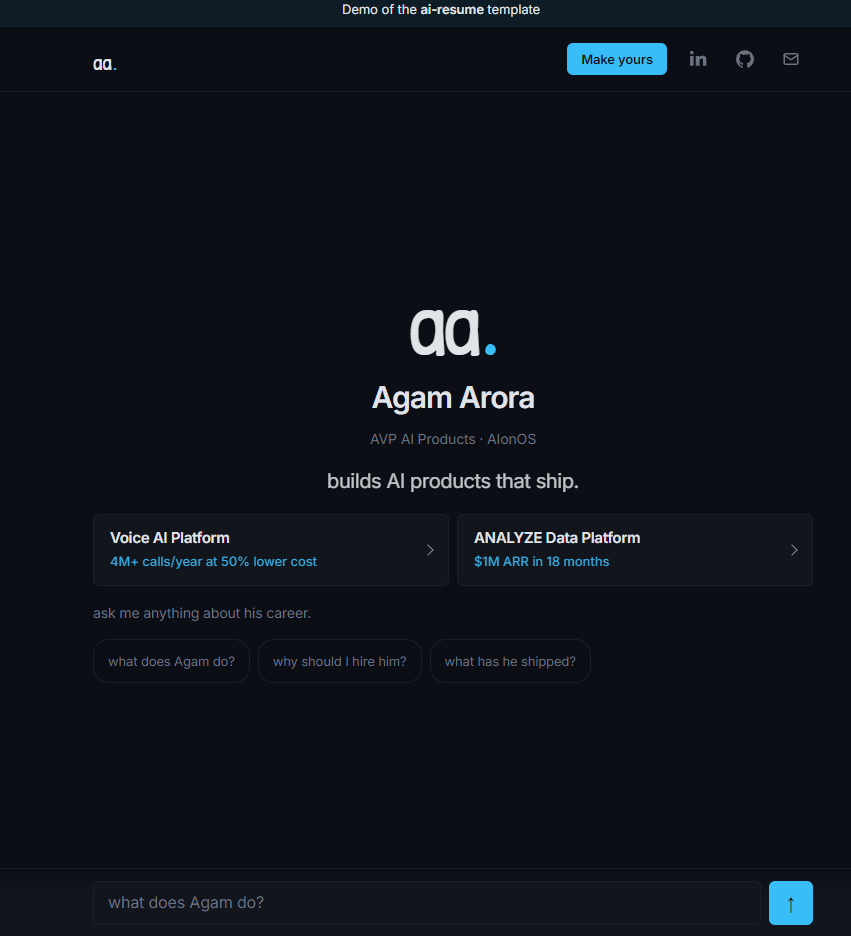
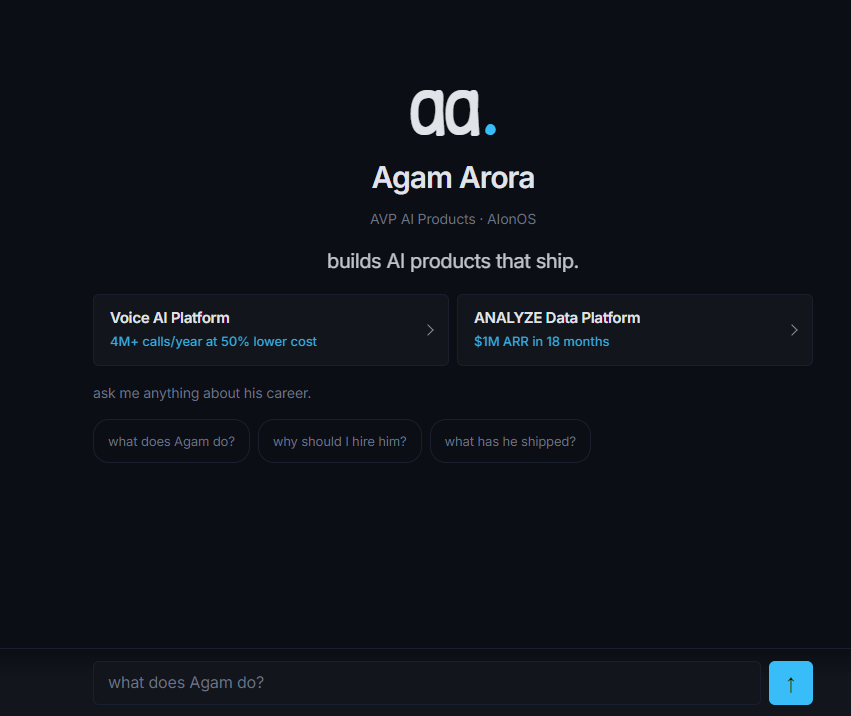
polish: crop demo image tighter + rename to 'AI Resume' in taglines
- Pre-cropped demo screenshot: 851x936 -> 851x716 (killed top banner +
  empty dark space above the aa. mark), then updated CSS to anchor at
  22% and shrunk the card slot to 320/280/220px for a more compact feel.
- Brand name in user-facing headings/taglines is 'AI Resume'; repo slug
  'ai-resume' stays only where it refers to github.com/agamarora/ai-resume
  or the route path.

diff --git a/lab/ai-resume/index.html b/lab/ai-resume/index.html
@@ -3,17 +3,17 @@
 <head>
 <meta charset="UTF-8">
 <meta name="viewport" content="width=device-width, initial-scale=1.0">
-<title>ai-resume — an open source AI resume template by Agam Arora</title>
+<title>AI Resume — an open source template by Agam Arora</title>
 <meta name="description" content="An open source template that turns your resume into a chat. Paste one prompt, get a deployed AI resume in 30 minutes. Free to run.">
 <meta name="theme-color" content="#0A0A0A">
-<meta property="og:title" content="ai-resume — a resume that answers back">
+<meta property="og:title" content="AI Resume — a resume that answers back">
 <meta property="og:description" content="Open source template. Paste one prompt, get a chat-based resume deployed in 30 minutes. Free to run.">
 <meta property="og:type" content="website">
 <meta property="og:url" content="https://agamarora.com/lab/ai-resume/">
 <meta property="og:image" content="https://agamarora.com/assets/lab/ai-resume-demo.png">
 <meta property="og:site_name" content="Agam Arora">
 <meta name="twitter:card" content="summary_large_image">
-<meta name="twitter:title" content="ai-resume — a resume that answers back">
+<meta name="twitter:title" content="AI Resume — a resume that answers back">
 <meta name="twitter:description" content="Open source. 30 minutes. $0/month.">
 <meta name="twitter:image" content="https://agamarora.com/assets/lab/ai-resume-demo.png">
 <link rel="canonical" href="https://agamarora.com/lab/ai-resume/">
@@ -402,7 +402,7 @@
   <div class="header">
     <a href="/" class="aa-mark">aa<span class="dot">.</span></a>
 
-    <div class="eyebrow">Lab / ai-resume</div>
+    <div class="eyebrow">Lab / AI Resume</div>
     <h1>A resume that <span class="accent">answers back.</span></h1>
     <p class="subhead">
       Open source template. Paste one prompt, get a chat-based resume deployed in 30 minutes. Free to run.
@@ -416,7 +416,7 @@
   <!-- PRESS RELEASE -->
   <div class="section">
     <div class="section-title">Press release</div>
-    <h2>ai-resume turns your career into a chat, not a PDF.</h2>
+    <h2>AI Resume turns your career into a chat, not a PDF.</h2>
 
     <p class="lead">
       A recruiter clicks your link. They see your strongest proof points as cards. They ask questions. An AI that knows your career answers in your voice and quotes your real metrics. Humans read it. Recruiter AI agents read it too, as structured Schema.org data.

diff --git a/lab/index.html b/lab/index.html
@@ -139,7 +139,7 @@
       data-tags="open-source ai groq template">
       <div class="project-header">
         <h2>
-          <span><i class="fas fa-file-lines" style="color: var(--prof-color); margin-right: 10px;"></i> ai-resume</span>
+          <span><i class="fas fa-file-lines" style="color: var(--prof-color); margin-right: 10px;"></i> AI Resume</span>
           <span class="project-badge">Open Source</span>
         </h2>
       </div>
@@ -157,7 +157,7 @@
             <span class="project-tag">AI Agent Friendly</span>
           </div>
           <div class="project-description">
-            <p>ai-resume turns your static resume into a live chat. Paste one prompt into Claude Code, run a coaching loop that drafts your system prompt and 12 behavioral evals, then deploy to Netlify. About 30 minutes. $0/month to run.</p>
+            <p>AI Resume turns your static resume into a live chat. Paste one prompt into Claude Code, run a coaching loop that drafts your system prompt and 12 behavioral evals, then deploy to Netlify. About 30 minutes. $0/month to run.</p>
           </div>
           <div class="project-actions icon-actions">
             <a href="/lab/ai-resume/" class="icon-button" aria-label="Read more about ai-resume" title="Read more">

diff --git a/styles/lab.css b/styles/lab.css
@@ -273,15 +273,17 @@ main {
 .ai-resume-preview img {
   display: block;
   width: 100%;
-  height: 360px;
+  height: 320px;
   object-fit: cover;
-  object-position: center 38%;
+  /* Source image is pre-cropped above the aa. mark. Anchor near the top
+     so the mark + proof cards stay in frame at any width. */
+  object-position: center 22%;
 }
 @media (max-width: 900px) {
-  .ai-resume-preview img { height: 300px; }
+  .ai-resume-preview img { height: 280px; }
 }
 @media (max-width: 600px) {
-  .ai-resume-preview img { height: 240px; }
+  .ai-resume-preview img { height: 220px; }
 }
 
 /* Responsive Video */
